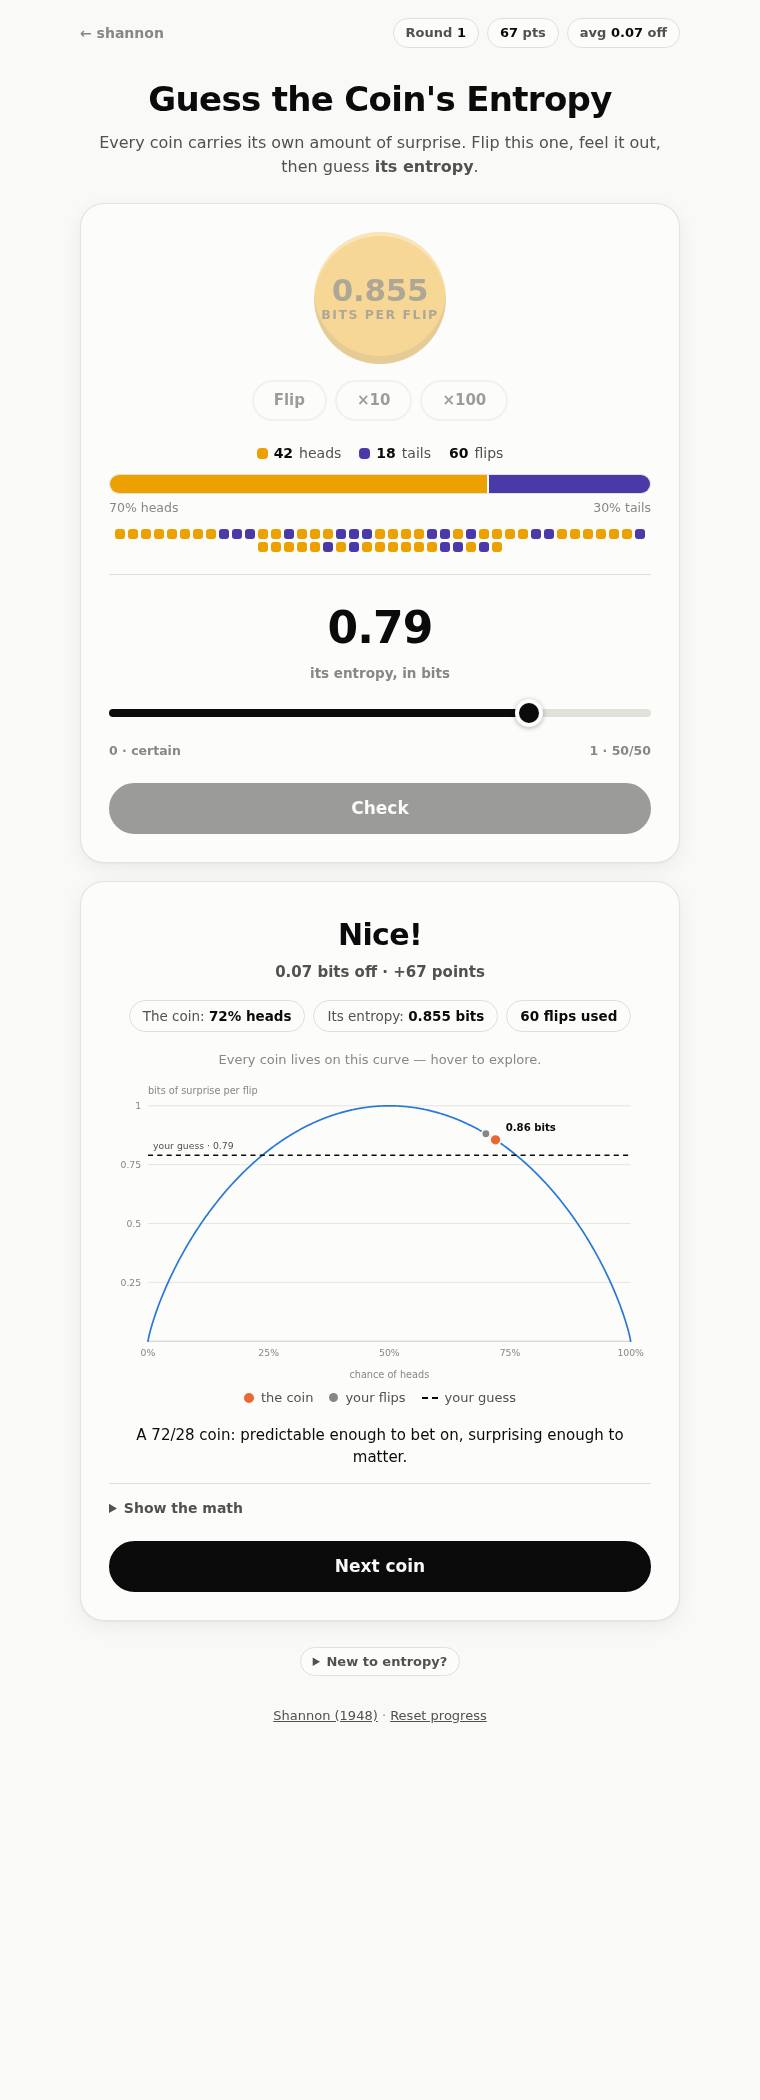
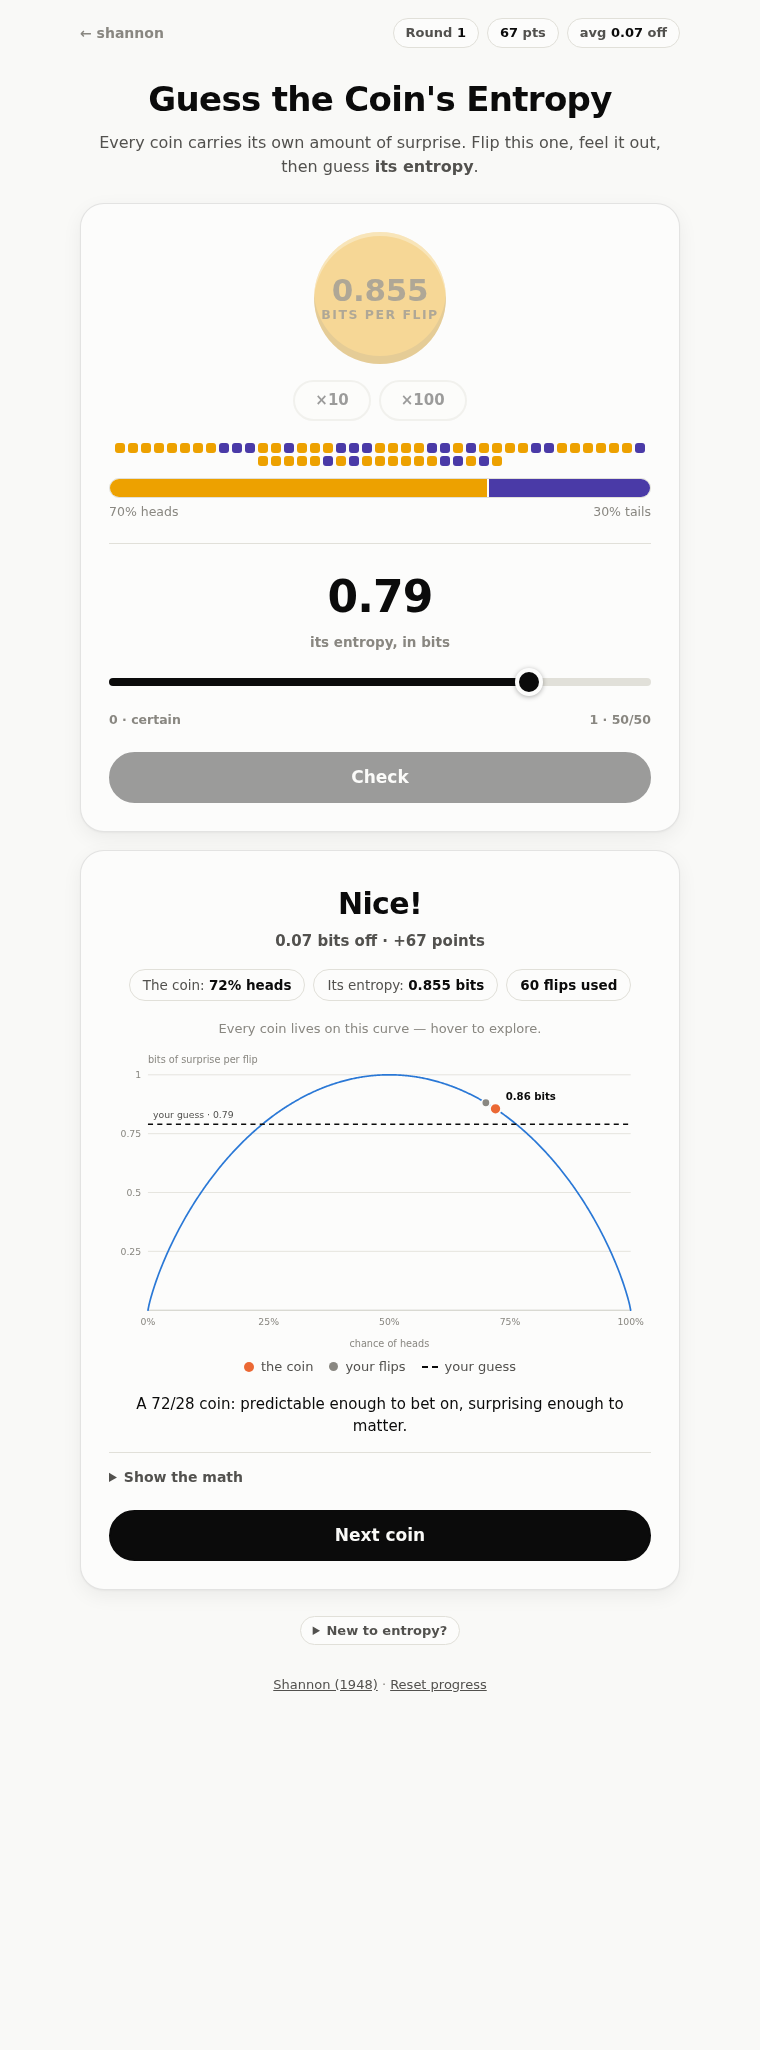
Tighter play card: events strip above average bar, no counts, no Flip button
- The flip strip (individual events) now sits directly under the coin,
  with the proportion bar (the running average) below it — raw data
  first, summary second. Percentages label the bar.
- Counting line removed; a visually-hidden live region still announces
  the tally to screen readers.
- Flip button removed: the coin is the button. Hover lift + press
  affordance make it read as tappable; x10 / x100 stay as accelerators.

Claude-Session: https://claude.ai/code/session_019UUezJJywyzG6fS6X6S1CS

diff --git a/games/coin-entropy/style.css b/games/coin-entropy/style.css
@@ -142,7 +142,8 @@ a { color: inherit; }
 .coin-icon { width: 52px; height: 52px; fill: currentColor; }
 .coin-cap { font-size: 12.5px; font-weight: 800; letter-spacing: 0.12em; text-transform: uppercase; }
 .coin-value { font-size: 31px; font-weight: 800; letter-spacing: -0.01em; }
-.coin:active:not(:disabled) { transform: scale(0.96); }
+.coin:hover:not(:disabled) { transform: scale(1.04); filter: brightness(1.06); }
+.coin:active:not(:disabled) { transform: scale(0.96); filter: none; }
 .coin.spin { animation: spin 0.5s ease; }
 .coin.bulk { animation: pulse 0.3s ease; }
 @keyframes spin { from { transform: rotateY(0); } to { transform: rotateY(720deg); } }
@@ -180,15 +181,16 @@ button:disabled { opacity: 0.4; cursor: default; }
 
 /* ---------- tally ---------- */
 
-.tally-legend {
-  display: flex; justify-content: center; gap: 18px; flex-wrap: wrap;
-  font-size: 14px; color: var(--ink-2); margin-bottom: 10px;
+.sr-live {
+  position: absolute; width: 1px; height: 1px; margin: -1px;
+  overflow: hidden; clip-path: inset(50%); white-space: nowrap;
 }
-.tally-legend b { color: var(--ink); font-weight: 700; }
-.key { display: inline-flex; align-items: center; gap: 6px; }
-.swatch { width: 11px; height: 11px; border-radius: 4px; display: inline-block; }
-.swatch-h { background: var(--heads); }
-.swatch-t { background: var(--tails); }
+
+.strip { display: flex; flex-wrap: wrap; gap: 3px; justify-content: center; margin: 0 0 12px; }
+.strip:empty { margin: 0; }
+.chip { width: 10px; height: 10px; border-radius: 3px; }
+.chip-h { background: var(--heads); }
+.chip-t { background: var(--tails); }
 
 .tally-bar {
   display: flex;
@@ -203,11 +205,6 @@ button:disabled { opacity: 0.4; cursor: default; }
 .seg-t { background: var(--tails); }
 
 .tally-pct { display: flex; justify-content: space-between; font-size: 12.5px; color: var(--muted); margin-top: 5px; min-height: 1.2em; }
-
-.strip { display: flex; flex-wrap: wrap; gap: 3px; margin-top: 12px; justify-content: center; }
-.chip { width: 10px; height: 10px; border-radius: 3px; }
-.chip-h { background: var(--heads); }
-.chip-t { background: var(--tails); }
 
 /* ---------- guess zone ---------- */
 

diff --git a/games/coin-entropy/game.js b/games/coin-entropy/game.js
@@ -54,10 +54,9 @@ function newCoin() {
 
 const $ = (id) => document.getElementById(id);
 const els = {
-  coin: $('coin'), strip: $('strip'),
-  countH: $('count-h'), countT: $('count-t'), countN: $('count-n'),
+  coin: $('coin'), strip: $('strip'), tallySr: $('tally-sr'),
   segH: $('seg-h'), segT: $('seg-t'), pctH: $('pct-h'), pctT: $('pct-t'),
-  flip1: $('flip-1'), flip10: $('flip-10'), flip100: $('flip-100'),
+  flip10: $('flip-10'), flip100: $('flip-100'),
   guess: $('guess'), guessOut: $('guess-out'), lock: $('lock'),
   revealPanel: $('reveal-panel'),
   verdict: $('verdict'), verdictSub: $('verdict-sub'),
@@ -139,9 +138,7 @@ function flip(n) {
 
 function renderTally() {
   const n = state.heads + state.tails;
-  els.countH.textContent = state.heads;
-  els.countT.textContent = state.tails;
-  els.countN.textContent = n;
+  els.tallySr.textContent = n ? `${state.heads} heads, ${state.tails} tails, ${n} flips` : '';
   els.segH.style.flexGrow = state.heads;
   els.segT.style.flexGrow = state.tails;
   els.pctH.textContent = n ? fmtPct(state.heads / n) + ' heads' : '';
@@ -261,7 +258,7 @@ function nextRound() {
 }
 
 function setPlayEnabled(on) {
-  [els.coin, els.flip1, els.flip10, els.flip100, els.guess, els.lock].forEach((el) => { el.disabled = !on; });
+  [els.coin, els.flip10, els.flip100, els.guess, els.lock].forEach((el) => { el.disabled = !on; });
 }
 
 function renderScorebar() {
@@ -410,7 +407,6 @@ function drawChart(p, H, ph, guess) {
 /* ---------------- wiring ---------------- */
 
 els.coin.addEventListener('click', () => flip(1));
-els.flip1.addEventListener('click', () => flip(1));
 els.flip10.addEventListener('click', () => flip(10));
 els.flip100.addEventListener('click', () => flip(100));
 els.guess.addEventListener('input', syncGuess);

diff --git a/games/coin-entropy/index.html b/games/coin-entropy/index.html
@@ -30,23 +30,18 @@
       <div class="coin-zone">
         <span class="coin-wob" id="coin-wob"><button class="coin" id="coin" aria-label="Flip the coin once"><span class="coin-glyph">?</span></button></span>
         <div class="flip-controls">
-          <button class="btn" id="flip-1" aria-label="Flip once">Flip</button>
           <button class="btn" id="flip-10" aria-label="Flip ten times">×10</button>
           <button class="btn" id="flip-100" aria-label="Flip one hundred times">×100</button>
         </div>
       </div>
 
-      <div class="tally-legend" aria-live="polite" aria-atomic="true">
-        <span class="key"><span class="swatch swatch-h"></span><b id="count-h">0</b> heads</span>
-        <span class="key"><span class="swatch swatch-t"></span><b id="count-t">0</b> tails</span>
-        <span class="key"><b id="count-n">0</b> flips</span>
-      </div>
+      <div class="sr-live" aria-live="polite" aria-atomic="true" id="tally-sr"></div>
+      <div class="strip" id="strip" aria-hidden="true"></div>
       <div class="tally-bar" role="img" aria-label="Share of heads and tails so far">
         <div class="seg seg-h" id="seg-h"></div>
         <div class="seg seg-t" id="seg-t"></div>
       </div>
       <div class="tally-pct"><span id="pct-h"></span><span id="pct-t"></span></div>
-      <div class="strip" id="strip" aria-hidden="true"></div>
 
       <div class="guess-zone">
         <div class="guess-value">
